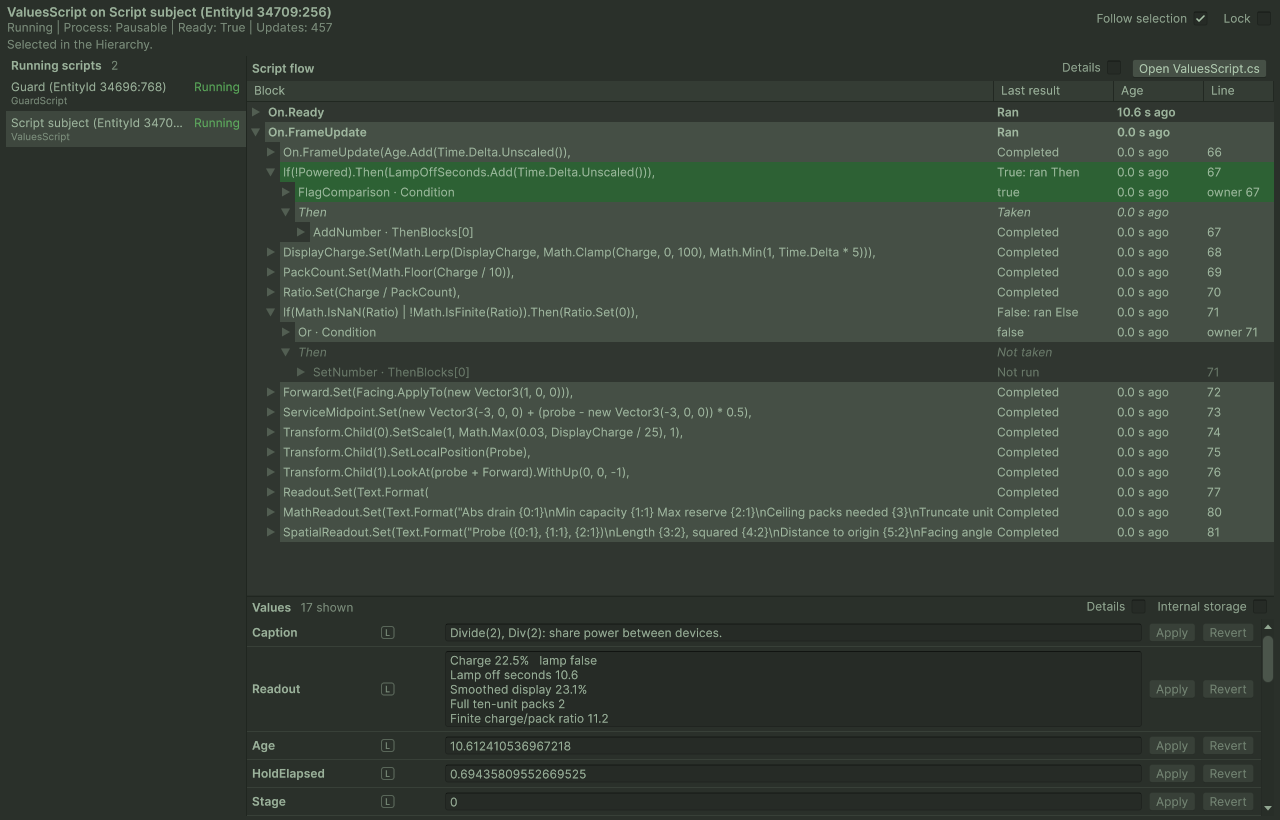
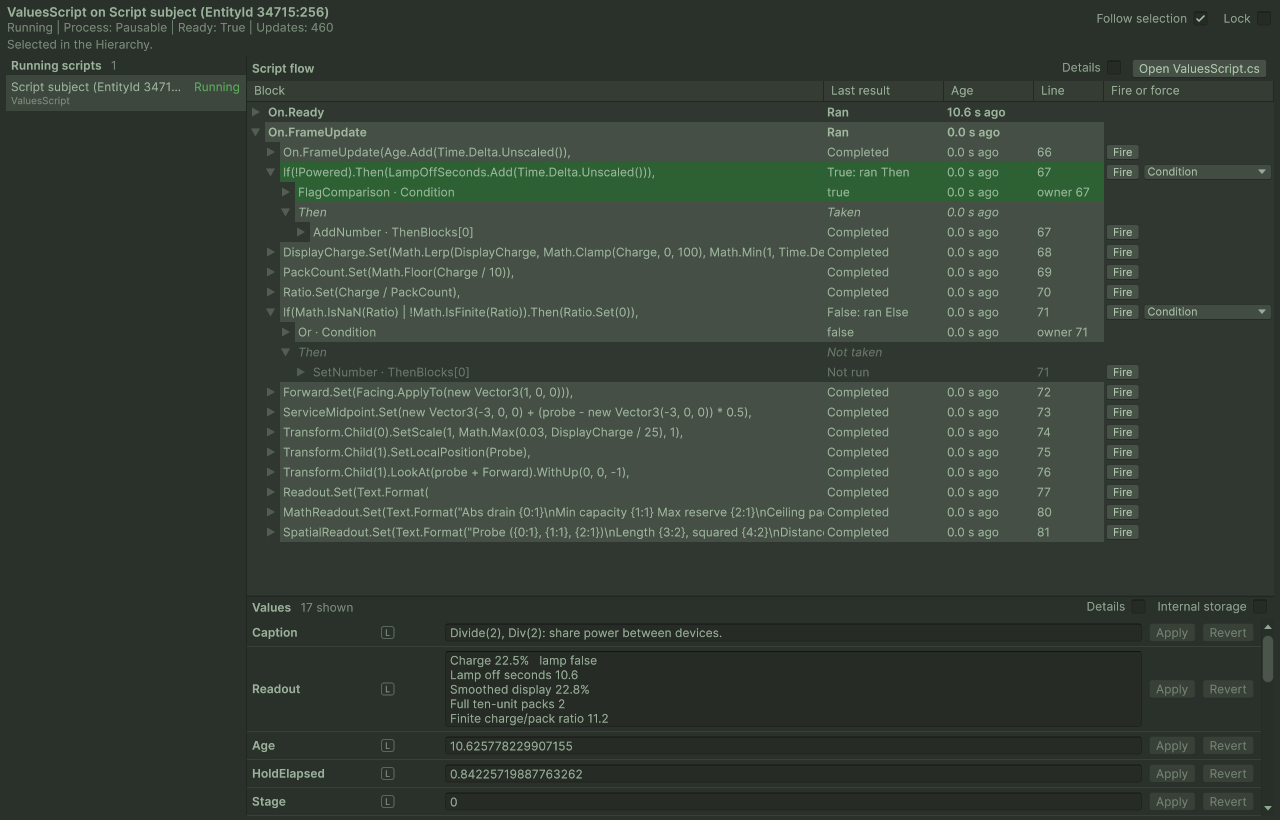
Publish docs from LunyScript2@5385ee2362efa82418ebed9b40734e497e79c568 CodeSmile-0000011110110111/LunyScript2@5385ee2362efa82418ebed9b40734e497e79c568

diff --git a/manual/debugging-a-running-script.html b/manual/debugging-a-running-script.html
@@ -57,7 +57,7 @@
   </header>
 
   <div class="post-content">
-    <p>A guard that runs faster while it is alert:</p>
+    <p>A guard that runs faster while it is alert, and counts hits:</p>
 
 <div class="language-csharp highlighter-rouge"><div class="highlight"><pre class="highlight"><code><span class="k">using</span> <span class="nn">CodeSmile.LunyScript</span><span class="p">;</span>
 
@@ -67,11 +67,13 @@
     <span class="p">{</span>
         <span class="n">Alert</span> <span class="p">=</span> <span class="n">Flag</span><span class="p">.</span><span class="nf">Define</span><span class="p">(</span><span class="k">nameof</span><span class="p">(</span><span class="n">Alert</span><span class="p">));</span>
         <span class="n">Speed</span> <span class="p">=</span> <span class="n">Number</span><span class="p">.</span><span class="nf">Define</span><span class="p">(</span><span class="k">nameof</span><span class="p">(</span><span class="n">Speed</span><span class="p">),</span> <span class="m">2</span><span class="p">);</span>
+        <span class="n">Hits</span> <span class="p">=</span> <span class="n">Number</span><span class="p">.</span><span class="nf">Define</span><span class="p">(</span><span class="k">nameof</span><span class="p">(</span><span class="n">Hits</span><span class="p">));</span>
 
         <span class="n">On</span><span class="p">.</span><span class="nf">FrameUpdate</span><span class="p">(</span>
             <span class="nf">If</span><span class="p">(</span><span class="n">Alert</span><span class="p">.</span><span class="nf">IsTrue</span><span class="p">())</span>
                 <span class="p">.</span><span class="nf">Then</span><span class="p">(</span><span class="n">Speed</span><span class="p">.</span><span class="nf">Set</span><span class="p">(</span><span class="m">6</span><span class="p">))</span>
                 <span class="p">.</span><span class="nf">Else</span><span class="p">(</span><span class="n">Speed</span><span class="p">.</span><span class="nf">Set</span><span class="p">(</span><span class="m">2</span><span class="p">)));</span>
+        <span class="n">On</span><span class="p">.</span><span class="nf">Message</span><span class="p">(</span><span class="s">"Hit"</span><span class="p">,</span> <span class="n">Hits</span><span class="p">.</span><span class="nf">Add</span><span class="p">(</span><span class="m">1</span><span class="p">));</span>
     <span class="p">}</span>
 <span class="p">}</span>
 </code></pre></div></div>
@@ -83,7 +85,7 @@ The <code class="language-plaintext highlighter-rouge">If</code> row reads “Fa
 checkbox under <strong>Values</strong> and press <strong>Apply</strong>: the window shows “Applied. Read back: true”, and from
 the next frame the <code class="language-plaintext highlighter-rouge">If</code> row reads “True: ran Then” with a green highlight. <code class="language-plaintext highlighter-rouge">Speed</code> shows 6.</p>
 
-<p><img src="/LunyScript-Docs/assets/runtime-debugger.png" alt="The Debugger window showing the Values example: running scripts, the script flow with results and ages, and the values with their editors" /></p>
+<p><img src="/LunyScript-Docs/assets/runtime-debugger.png" alt="The Debugger window showing the Values example: running scripts, the script flow with results, ages and each block's Fire button and each If's Force list, and the values with their editors" /></p>
 
 <p>The debugger shows what a script is doing while the game runs, without stopping the game or changing
 the script. It is a view of the running script, not a way to write one: the script stays C#.</p>
@@ -138,9 +140,9 @@ as <code class="language-plaintext highlighter-rouge">Health &gt; 10</code>, has
 condition, and a light background for any other block. A block that runs every frame stays
 highlighted.</p>
 
-<p>Every result is the one recorded when the block ran. The debugger never runs a block and never
-evaluates a condition to fill in a row, so a condition that has not run since the player moved
-still shows its last result, with its age.</p>
+<p>Every result is the one recorded when the block ran. The debugger never evaluates a condition to
+fill in a row, and it runs a block only when you press Fire, so a condition that has not run since
+the player moved still shows its last result, with its age.</p>
 
 <p>Double-click a row to open its line in your code editor.</p>
 
@@ -155,6 +157,27 @@ runs no block.</p>
 
 <p>A synchronized value that another peer has authority over cannot be changed from this Editor; its
 editor is disabled and says why.</p>
+
+<h2 id="running-a-block-and-forcing-an-if">Running a block and forcing an If</h2>
+
+<p>The row of a block that acts, such as a <code class="language-plaintext highlighter-rouge">Set</code>, an <code class="language-plaintext highlighter-rouge">Add</code> or an <code class="language-plaintext highlighter-rouge">If</code>, has a <strong>Fire</strong> button, and an
+<code class="language-plaintext highlighter-rouge">If</code> row also has a <strong>Force</strong> list; the rows of a condition and of a value have neither. Both act on
+the running script at once, between two frames, and neither changes the script.</p>
+
+<p><strong>Fire</strong> runs that one block once, as its event would. Nothing sends the guard’s <code class="language-plaintext highlighter-rouge">Hit</code> message yet,
+so its <code class="language-plaintext highlighter-rouge">Hits.Add(1)</code> block never runs on its own: press Fire on its row, and <code class="language-plaintext highlighter-rouge">Hits</code> under <strong>Values</strong>
+goes up by one each time. Fire on an <code class="language-plaintext highlighter-rouge">If</code> runs its condition and the branch the condition picks.
+A block that runs over several frames cannot be fired: a routine and its steps, a timed <code class="language-plaintext highlighter-rouge">Run</code>, a
+state machine, <code class="language-plaintext highlighter-rouge">Choose</code>, a <code class="language-plaintext highlighter-rouge">Wait</code>, and every block inside them. Neither can a block of a contact
+event such as <code class="language-plaintext highlighter-rouge">On.CollisionEnter</code>, which can read the other collider only a collision supplies.
+Their Fire button is disabled, and its tooltip says why. A fired block that fails stops the script,
+as any failure does.</p>
+
+<p><strong>Force</strong> makes an <code class="language-plaintext highlighter-rouge">If</code> run the branch you choose without evaluating its condition. Choose
+<strong>Forced true</strong> in the guard’s <code class="language-plaintext highlighter-rouge">If</code> row: from the next frame the row reads “True: ran Then” and
+<code class="language-plaintext highlighter-rouge">Speed</code> shows 6, while <code class="language-plaintext highlighter-rouge">Alert</code> stays false. The list shows the forced branch in amber until you
+choose <strong>Condition</strong>, which gives the <code class="language-plaintext highlighter-rouge">If</code> its condition back. An <code class="language-plaintext highlighter-rouge">If</code> also stops being forced when
+its object despawns and when Play Mode ends.</p>
 
 <h2 id="the-console-window">The Console window</h2>
 
